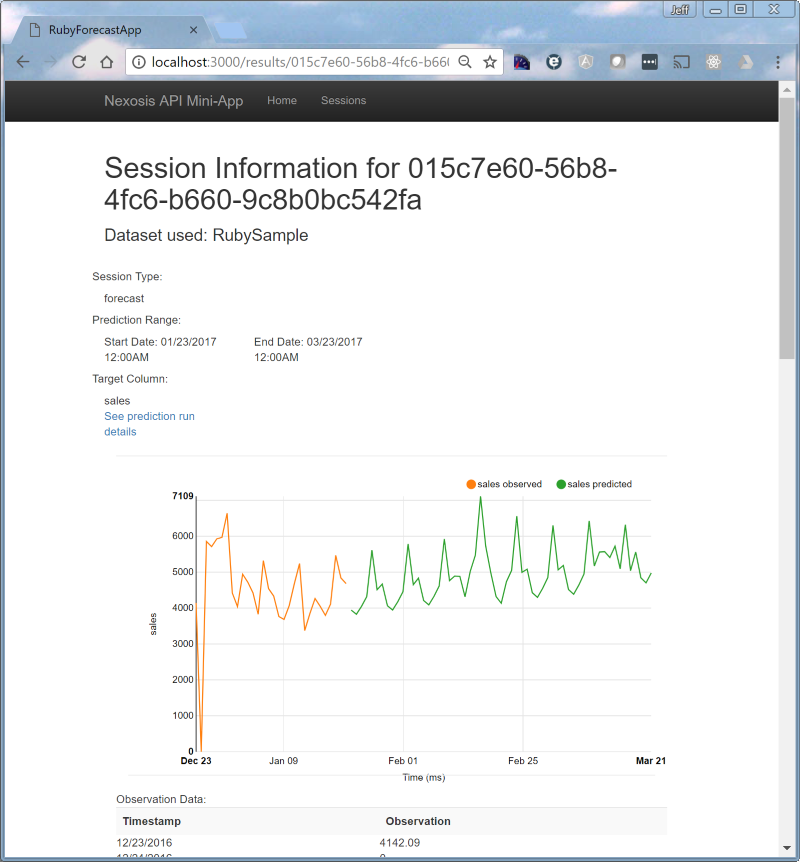
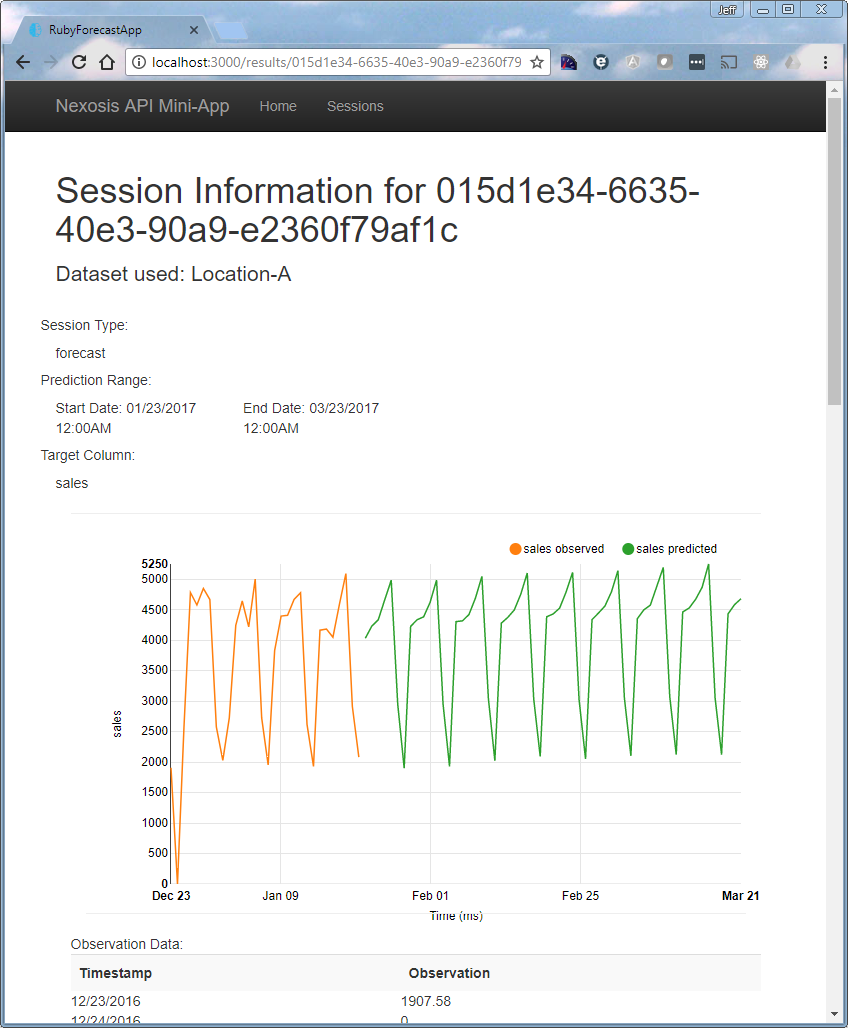
docs updates to match new capabilities

diff --git a/readme.md b/readme.md
@@ -36,11 +36,11 @@ rails server
 
 Datasets & Sessions
 ---
-A *dataset* in the Nexosis API is a collection of observations on which a forecast or impact analysis will be run. The API allows you to upload a dataset independent of any request to perform work on it, or to submit data at the same time as a request to perform the work. We call a request to perform the forecast or impact analysis work a *session*. With your api key placed in config/secrets.yml you're ready to interact with the API. The landing page is at http://localhost:3000/account and should look like this:
+A *dataset* in the Nexosis API is a collection of observations on which a forecast or impact analysis will be run. The API allows you to upload a dataset independent of any request to perform work on it, or to submit data at the same time as a request to perform the work. We call a request to perform the forecast or impact analysis work a *session*. With your api key placed in config/secrets.yml you're ready to interact with the API. The landing page is at http://localhost:3000/account. If you added sample data during sign up then your page should look like this:
 
 ![Landing Page](docs/landing_page.png)
 
-Note that we've read your outstanding balance from the headers on a session request wrapped in the *get_account_balance* method in the api_client.rb file
+Note that we've read your available balance from the headers on a session request wrapped in the *get_account_balance* method in the api_client.rb file
 ``` ruby
 def get_account_balance
 	session_url = '/sessions'
@@ -55,7 +55,7 @@ end
 This application helps you load a CSV file you have locally as a dataset (*the API also accepts json input*). 
 > If you don't have a dataset of your own, trying using one of our publicly available samples at https://github.com/Nexosis/sampledata
 
-In order to have a named dataset you must also provide that name. Once you have provided the name, and selected a file you can click the submit button. Again, this is a distinct operation from submitting a session request which would do work - we'll get to that soon. The api client for this application has been written to upload only 5000 lines at a time because we're sending the data as the request body and need to mind limits. We recommend using the S3 option with production datasets.
+In order to have a named dataset you must also provide that name. Once you have provided the name, and selected a file you can click the submit button. Again, this is a distinct operation from submitting a session request which would do work - we'll get to that soon. The api client for this application has been written to upload only 5000 lines at a time because we're sending the data as the request body and need to mind limits.
 ``` ruby
 csv.each do |row|
 	rowCount += 1
@@ -67,6 +67,8 @@ csv.each do |row|
 end
 ```
 You may also notice in the snippet above that the CR/LF line feed type has been forced between each line to follow the CSV specification and play nice with our underlying parser.
+>Importing from AWS S3 is recommended for production datasets. You can use the imports capability of the API directly - or within this app just select "I have a file on AWS S3" on the landing page:
+![](docs/s3upload.png)
 #### Modifying a Dataset
 Once you have a named dataset you can submit data again with the same name and either modify previously submitted data or add new. This is why we recommend using named datasets over sending data with a session request. With time series data the timestamp column will be used as the key for performing the upsert on your named dataset.
 ### Sessions
@@ -82,7 +84,7 @@ If you click on *Begin Forecast* you'll be asked for some additional data to spe
 
 ![submit forecast](docs/submitforecast.png)
 
-In the example above I have used the *Location C.csv* sample data file. You should note that the column to predict must be one of the non-timestamp columns in your file. If you load a csv without headers, you will get a header named after your first row - so best to include headers in all files. In this case the file contained both a *sales* and a *transactions* column and we've requested predictions on the sales column. The start and end dates for predictions must coincide with the dates available in the file. For example, it's ok to ask for dates within the file, or overlapping the end, or from the end to some other point. However, if you select a date beyond the end of the observations dates for your prediction start date you won't get results.  In this case we're asking for predictions to start after the last day of observations and going out two months.
+In the example above I have used the *Location A.csv* sample data file. You should note that the column to predict must be one of the non-timestamp columns in your file. If you load a csv without headers, you will get a header named after your first row - so best to include headers in all files. In this case the file contained both a *sales* and a *transactions* column and we've requested predictions on the sales column. The start and end dates for predictions must coincide with the dates available in the file. For example, it's ok to ask for dates within the file, or overlapping the end, or from the end to some other point. However, if you select a date beyond the end of the observations dates for your prediction start date you won't get results.  In this case we're asking for predictions to start after the last day of observations and going out two months.
 
 ![](docs/forecast_success.png)
 
